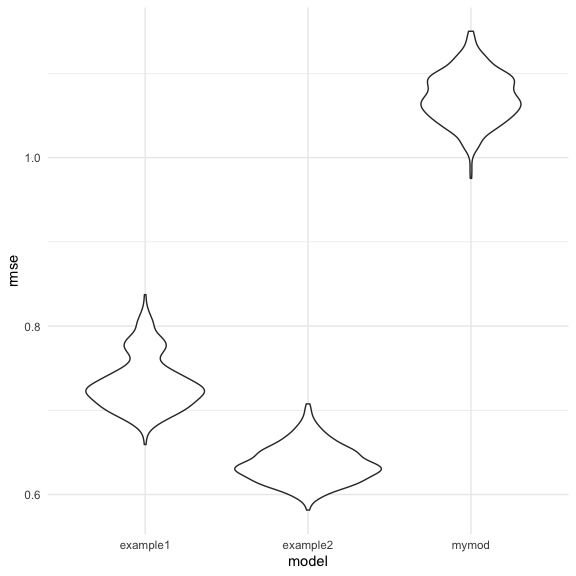
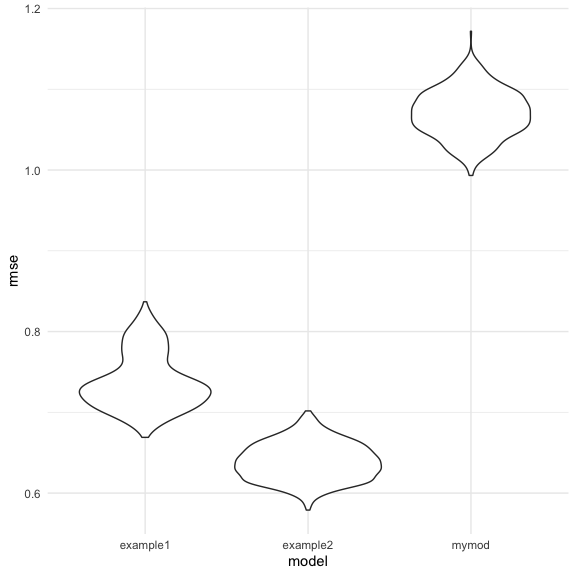
P2. Summary rmse. comments made on my v poor model.

diff --git a/p8105_hw6_np2619.md b/p8105_hw6_np2619.md
@@ -371,6 +371,40 @@ cv_df %>%
 ```
 
 <img src="p8105_hw6_np2619_files/figure-gfm/unnamed-chunk-14-1.png" width="90%" />
+Lower values of RMSE indicate better fit, and from these plots, we can
+clearly say that my model is the worst fit of the bunch. When
+visualizing variables included in the example models, we saw more
+linearity than in the visualizations I plotted for my model. This was my
+first indication that my model would not fit the model as well as the
+example models have. This was a fun model to build, and a great way to
+understand what to look for when building a model.
+
+#### Summarize RMSE
+
+``` r
+cv_df %>% 
+  select(starts_with("rmse")) %>% 
+  pivot_longer(
+    everything(),
+    names_to = "model",
+    values_to = "rmse",
+    names_prefix = "rmse_"
+  ) %>% 
+  group_by(model) %>% 
+  summarize(avg_rmse = mean(rmse)) %>% 
+  knitr::kable()
+```
+
+    ## `summarise()` ungrouping output (override with `.groups` argument)
+
+| model    | avg\_rmse |
+| :------- | --------: |
+| example1 | 0.7381941 |
+| example2 | 0.6389746 |
+| mymod    | 1.0702088 |
+
+As we can see with the average RMSEs, the example models faired far
+better in goodness of fit than my model did.
 
 ## Problem 3
 
@@ -408,7 +442,7 @@ weather_df %>%
   geom_point()
 ```
 
-<img src="p8105_hw6_np2619_files/figure-gfm/unnamed-chunk-16-1.png" width="90%" />
+<img src="p8105_hw6_np2619_files/figure-gfm/unnamed-chunk-17-1.png" width="90%" />
 It looks prettty linear.
 
 #### Bootstrap 5000 values
@@ -455,7 +489,7 @@ logval = weather_boot_estimates %>%
 rsquared + logval
 ```
 
-<img src="p8105_hw6_np2619_files/figure-gfm/unnamed-chunk-19-1.png" width="90%" />
+<img src="p8105_hw6_np2619_files/figure-gfm/unnamed-chunk-20-1.png" width="90%" />
 
 #### Quantiles
 
@@ -473,14 +507,14 @@ knitr::kable(weather_boot_quantiles)
 
 | ci\_lower\_r | ci\_upper\_r | ci\_lower\_log | ci\_upper\_log |
 | -----------: | -----------: | -------------: | -------------: |
-|    0.8936308 |    0.8988209 |       1.965736 |       1.979167 |
+|    0.8940939 |    0.8989968 |       1.964627 |       1.978206 |
 
 We can see these bootstrap values for rsquared center around 0.91, with
 a seemingly normal curve, possibly skewed to the left, with a greater
 density of values centered at 0.91. The confidence interval for
-bootstrap rsquared values are 0.8936308 to 0.8988209.
+bootstrap rsquared values are 0.8940939 to 0.8989968.
 
 For the log of intercept \* slope, we also see a normal distribution of
 bootstrap values, centered around 2.025. Again we see a greater density
 around the center values. The confidence interval for bootstrap
-log(slope \* intercept) values are 1.965736 to 1.9791671.
+log(slope \* intercept) values are 1.9646268 to 1.9782056.
